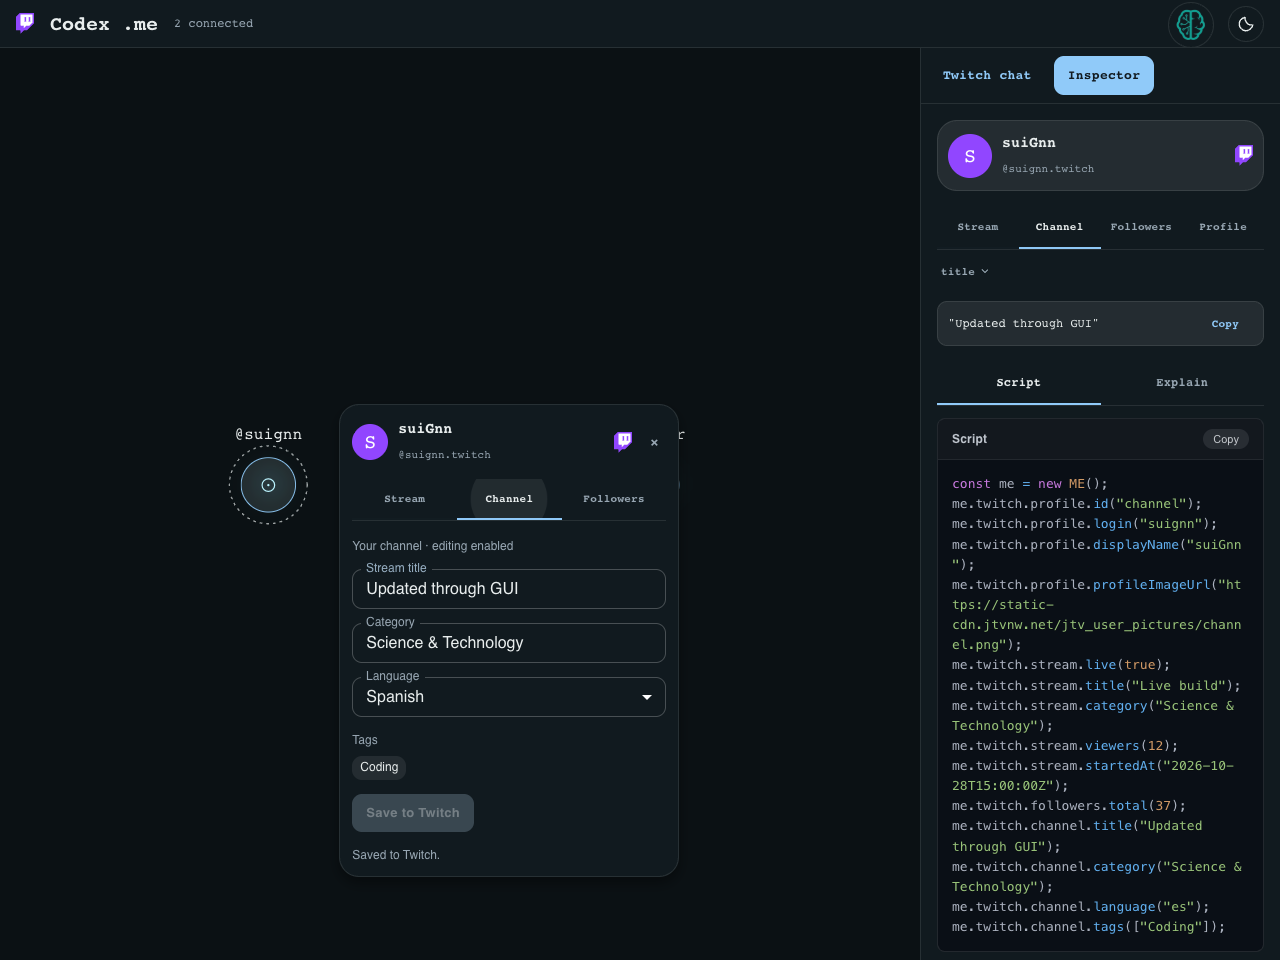
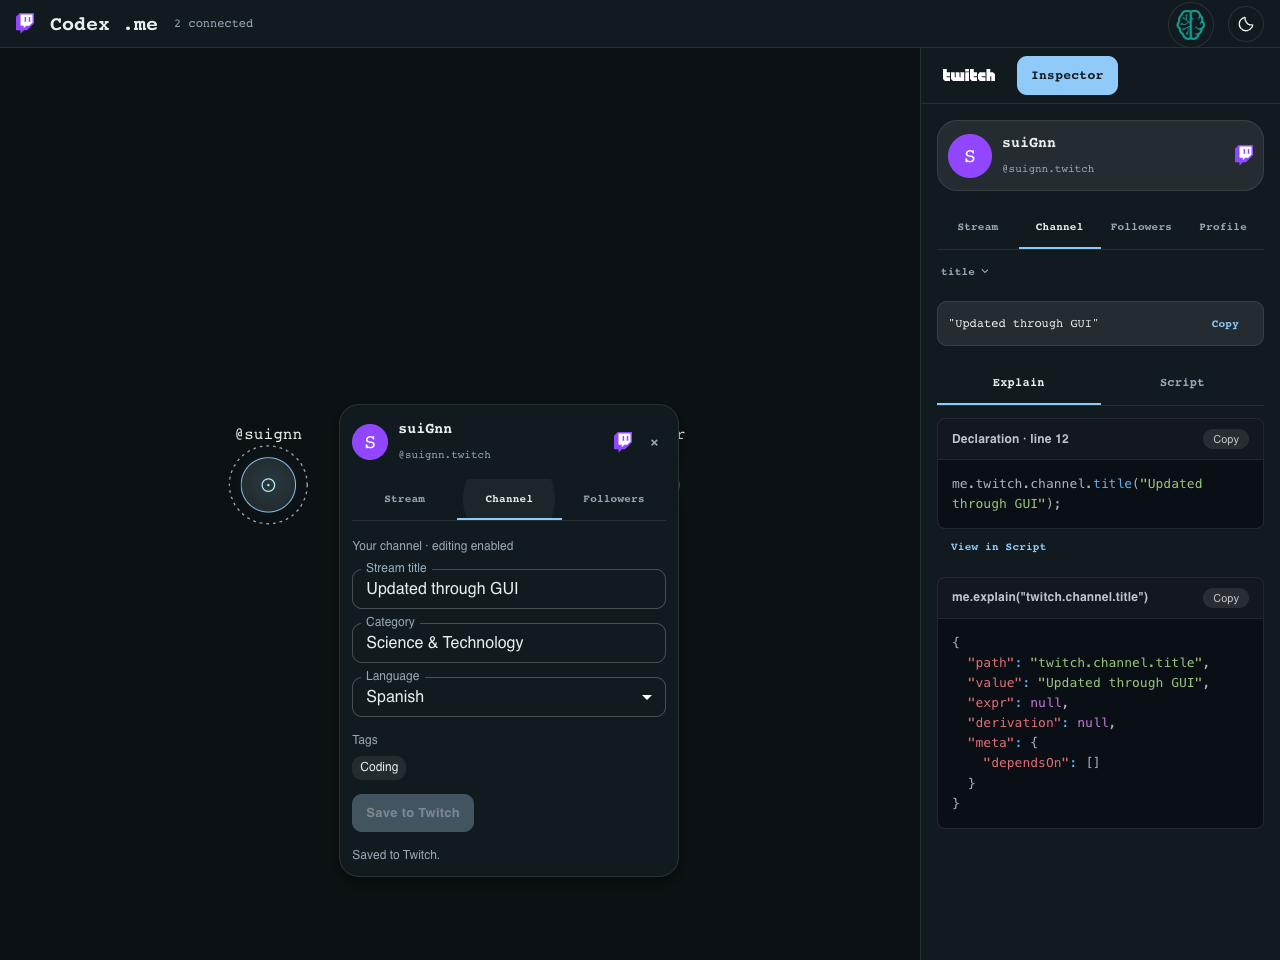
ui: prioritize Explain and locate matching script declarations

diff --git a/overlay/kernel-console.js b/overlay/kernel-console.js
@@ -1,8 +1,9 @@
+import { sourceDeclarations } from './kernel-source.js';
 const R = window.React, h = R.createElement, G = window.GUI;
 const { Box, Typography, Button } = G.Atoms;
 const mono = { fontFamily: '"IBM Plex Mono", ui-monospace, monospace' };
 const codeStyle = { minWidth: 0, '& pre code': { whiteSpace: 'pre-wrap !important', overflowWrap: 'anywhere' }, '& pre code > span': { display: 'block !important', overflowWrap: 'anywhere' }, '& pre code > span > span': { display: 'inline !important' } };
-const code = (source, language, title) => h(G.CodeBlock, { code: source, language, title, wrapLongLines: true, showLineNumbers: false, showCopyButton: true, style: { borderRadius: 8 } });
+const code = (source, language, title, numbered = false) => h(G.CodeBlock, { code: source, language, title, wrapLongLines: true, showLineNumbers: numbered, showCopyButton: true, style: { borderRadius: 8 } });
 function CodeLine({ value }) {
   const [copied, setCopied] = R.useState(false), [error, setError] = R.useState('');
   const text = JSON.stringify(value);
@@ -16,7 +17,7 @@ function CodeLine({ value }) {
       h(Button, { size: 'small', onClick: copy, 'aria-label': 'Copy output', sx: { ...mono, minWidth: 0, flexShrink: 0, textTransform: 'none', fontSize: 11 } }, copied ? 'Copied' : 'Copy')),
     error ? h(Typography, { role: 'alert', sx: { fontSize: 12, color: 'error.main', mt: 0.5 } }, error) : null);
 }
-const tabs = ['Script', 'Explain'];
+const tabs = ['Explain', 'Script'];
 function useQuery(kernel, path, operation, enabled) {
   const [result, setResult] = R.useState(null);
   const nodes = kernel.graph?.nodes || [], leaf = nodes.some(node => node.path === path);
@@ -57,7 +58,15 @@ export function KernelOutput({ kernel, path, compact = false }) {
   return h(Box, { component: 'section', 'aria-label': 'Output', sx: { ...codeStyle, mb: compact ? 0 : 2 } }, renderResult(output, 'run', kernel, path, leaf));
 }
 export function KernelConsole({ kernel, path }) {
-  const [tab, setTab] = R.useState('Script');
+  const [tab, setTab] = R.useState('Explain');
+  const scriptRef = R.useRef(null), [jump, setJump] = R.useState(0);
+  const declarations = sourceDeclarations(kernel, path);
+  const lines = declarations.map(item => item.line);
+  const location = lines.length === 1 ? `line ${lines[0]}` : lines.every((line, index) => line === lines[0] + index) ? `lines ${lines[0]}–${lines.at(-1)}` : `lines ${lines.join(', ')}`;
+  R.useLayoutEffect(() => {
+    if (tab === 'Script' && jump && declarations.length) scriptRef.current?.querySelector(`pre code > span:nth-of-type(${declarations[0].line})`)?.scrollIntoView({ block: 'nearest' });
+  }, [tab, jump, kernel.script, path]);
+  const highlights = Object.fromEntries(declarations.map(item => [`& pre code > span:nth-of-type(${item.line})`, { bgcolor: 'action.selected', boxShadow: 'inset 2px 0 currentColor' }]));
   const leaf = kernel.graph?.nodes.some(node => node.path === path || node.path.startsWith(path+'.'));
   const explanation = useQuery(kernel, path, 'explain', leaf && tab === 'Explain');
   const prefix = `console-${kernel.id}`;
@@ -72,5 +81,10 @@ export function KernelConsole({ kernel, path }) {
           event.preventDefault(); setTab(tabs[next]); event.currentTarget.parentElement.querySelectorAll('[role="tab"]')[next].focus();
         }, sx: { ...mono, flex: 1, minWidth: 0, textTransform: 'none', fontSize: 12, borderRadius: 0, borderBottom: 2, borderColor: tab === label ? 'primary.main' : 'transparent', color: tab === label ? 'text.primary' : 'text.secondary' } }, label))),
     h(Box, { role: 'tabpanel', id: `${prefix}-panel`, 'aria-labelledby': `${prefix}-${tab}`, tabIndex: 0 },
-      tab === 'Script' ? h(Box, { 'data-me-script': kernel.id }, code(kernel.script, 'javascript', 'Script')) : renderResult(explanation, 'explain', kernel, path, leaf)));
+      tab === 'Script' ? h(Box, { ref: scriptRef, 'data-me-script': kernel.id, 'data-source-lines': declarations.map(item => item.line).join(','), sx: highlights }, code(kernel.script, 'javascript', 'Script', true))
+        : h(R.Fragment, null,
+          declarations.length ? h(Box, { 'data-explain-source': path, 'data-source-lines': lines.join(','), sx: { mb: 1.5 } },
+            code(declarations.map(item => item.source).join('\n'), 'javascript', `${declarations.length === 1 ? 'Declaration' : 'Declarations'} · ${location}`),
+            h(Button, { size: 'small', onClick: () => { setJump(declarations[0].line); setTab('Script'); }, sx: { ...mono, fontSize: 11, textTransform: 'none' } }, 'View in Script')) : null,
+          renderResult(explanation, 'explain', kernel, path, leaf))));
 }

diff --git a/overlay/kernel-source.js b/overlay/kernel-source.js
@@ -1,0 +1,9 @@
+// Source locations in the displayed reproducible construction script, not VM execution frames.
+export function sourceDeclarations(kernel, path) {
+  const known = new Set((kernel.graph?.nodes || []).map(node => node.path));
+  return (kernel.script || '').split('\n').flatMap((source, index) => {
+    const match = /^me\.([A-Za-z_]\w*(?:\.[A-Za-z_]\w*)*)\(/.exec(source);
+    if (!match || !known.has(match[1]) || (match[1] !== path && !match[1].startsWith(path + '.'))) return [];
+    return [{ path: match[1], line: index + 1, source }];
+  });
+}

diff --git a/README.md b/README.md
@@ -55,7 +55,7 @@ The profile and bubble card use the label `@<login>.twitch` with the actual avat
 
 Clicking a bubble opens its controls beside the node, synchronized with the inspector. Both share the selected kernel/path. Focusing a channel field selects its matching inspector leaf without replacing the form. Stream is initially selected, showing Live now or Offline from the actual API response. Closing the card preserves selection. These controls remain outside the transparent OBS source.
 
-The inspector alone presents formatted, copyable whole-section JSON or a compact, single-line leaf value with Copy. Its optional **All fields** dropdown narrows inspection to one leaf. It automatically reads `me(path)` from the existing server kernel. **Script / Explain** tabs below the output show the construction source or the actual `me.explain(path)` JSON, including expression, derivation and metadata from this.me 4.2.1. Tab selection persists across paths and kernels; obsolete query results are hidden. Script is initially selected; arrow keys and Home/End navigate the tabs. Native GUI syntax highlighting is preserved. The construction script is not re-executed, and arbitrary code/eval is not accepted. This object inspector is separate from GUI's general interface inspector and browser DOM developer tools. Face following changes presentation only.
+The inspector alone presents formatted, copyable whole-section JSON or a compact, single-line leaf value with Copy. Its optional **All fields** dropdown narrows inspection to one leaf. It automatically reads `me(path)` from the existing server kernel. **Explain / Script** tabs below the output show the actual `me.explain(path)` JSON or the complete construction source, including expression, derivation and metadata from this.me 4.2.1. Tab selection persists across paths and kernels; obsolete query results are hidden. Explain is initially selected; arrow keys and Home/End navigate the tabs. Native GUI syntax highlighting is preserved. Explain includes only the matching declaration excerpt with its original line number(s). **View in Script** opens the complete, numbered script and scrolls to the highlighted declaration. Locations refer to the currently displayed reproducible construction script; they are not native VM execution frames or historical call stacks. Unrelated profile/section declarations are omitted from the Explain excerpt. The construction script is not re-executed, and arbitrary code/eval is not accepted. This object inspector is separate from GUI's general interface inspector and browser DOM developer tools. Face following changes presentation only.
 
 ### Permissions and optional channel editing
 

diff --git a/evidence/SESSION.md b/evidence/SESSION.md
@@ -470,3 +470,12 @@ Real-browser verification confirmed one panel wordmark, the actual suignn avatar
 ### 2026-10-29 — matching Twitch icon for standalone chat
 
 Replaced the compact channel row's external-window arrow with the existing official Twitch Glitch icon. Tooltip and accessible link name are Open in Twitch; the destination remains the official standalone chat popout, opened with target=_blank and noopener noreferrer. Browser verification confirmed the icon renders and the correct popout URL is retained. Screenshot: evidence/kernels/chat-twitch-icon.png. Syntax/diff checks passed; no backend or real chat changes.
+
+
+### 2026-10-29 — Output, Explain, Script and precise declaration context
+
+Reordered the inspector to keep Output visible first, with Explain / Script tabs below and Explain selected initially. Existing tab persistence across paths/kernels is retained. Explain shows only the construction-script declarations matching the selected leaf or section, with original line numbers, before the unmodified native explanation JSON. View in Script opens the complete numbered source, highlights matching rows and scrolls to the current declaration. The jump follows updated source locations when public-section refreshes move declarations.
+
+Source locations are an explicit UI association with the currently displayed reproducible construction script. Native this.me 4.2.1 explain does not supply VM execution frames, historical call stacks or source-line metadata; none is fabricated. Statement matching is anchored at the beginning of actual known-path declarations, so mentions inside string values and neighboring names do not become false source matches.
+
+Expanded offline real-server/browser integration passed: default/order Explain then Script; exact leaf-only excerpt; original line number against the actual current script; View in Script selecting its tab and highlighting the exact syntax-rendered row; retained real explanation JSON; stable navigation, permissions and simulated save behavior. Pure source checks cover adjacent names, nested namespaces and missing paths. Browser verification used the real imported Followers total, showing its single matching declaration and the numbered/highlighted full-script location. Screenshots: explain-context-source.png and explain-script-location.png. No native kernel/package, server, OAuth, actual chat or OBS changes.
